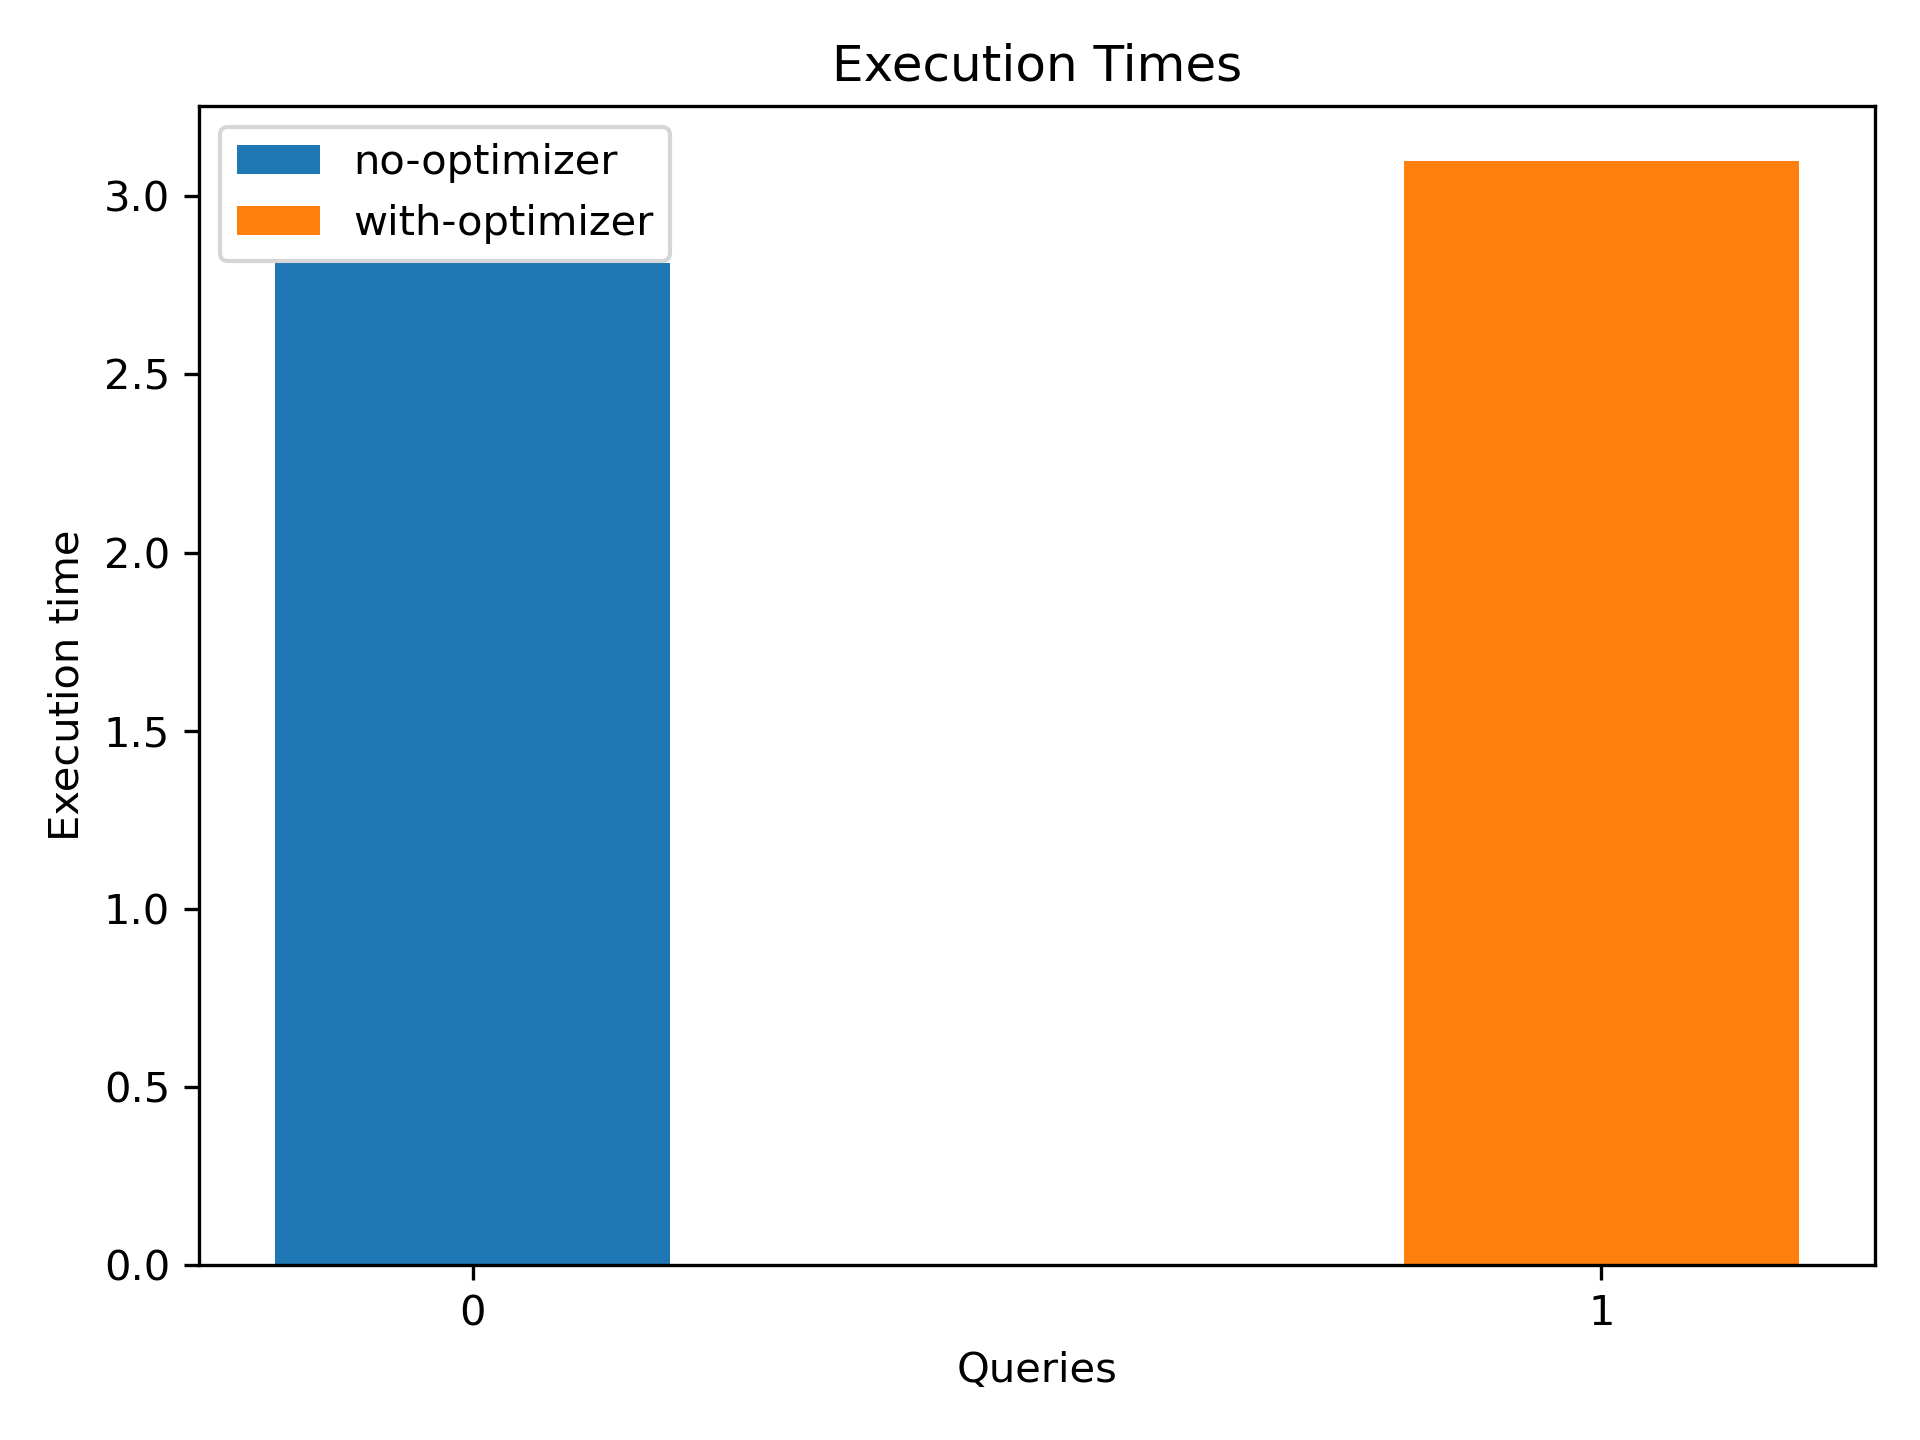
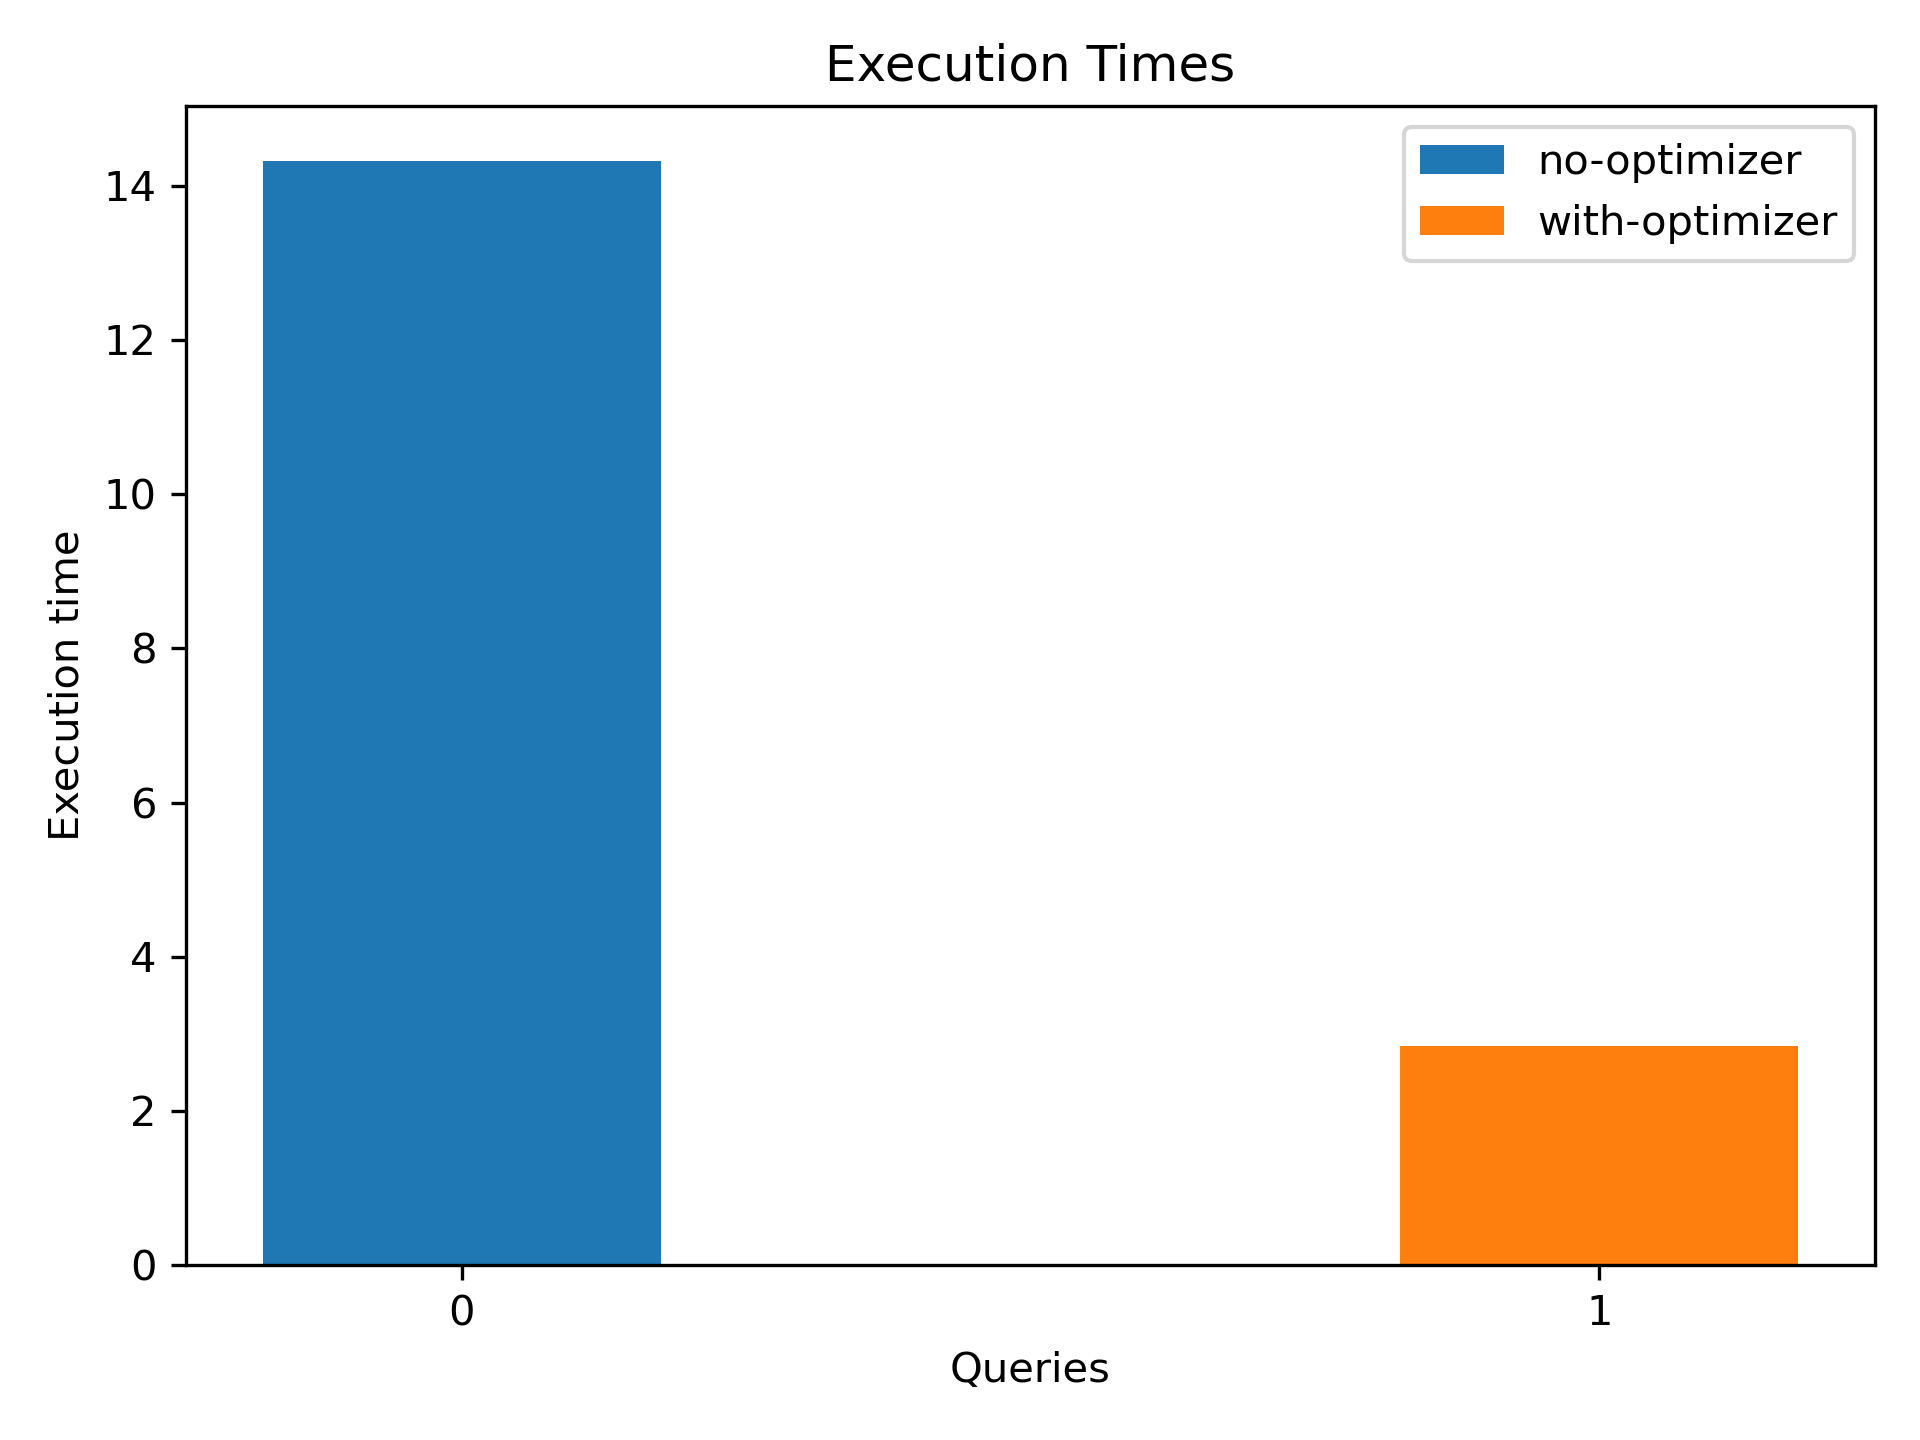
Optimizer/No-Optimizer tweak different option

diff --git a/src/test_optimizer.py b/src/test_optimizer.py
@@ -7,7 +7,8 @@ disabled = sys.argv[1]
 spark = SparkSession.builder.appName('query1-sql').getOrCreate()
 
 if disabled == "Y":
-    spark.conf.set("spark.sql.cbo.enabled", "False")
+    spark.conf.set("spark.sql.autoBroadcastJoinThreshold", -1)
+    #set("spark.sql.cbo.enabled", "False")
 elif disabled == 'N':
     pass
 else:
